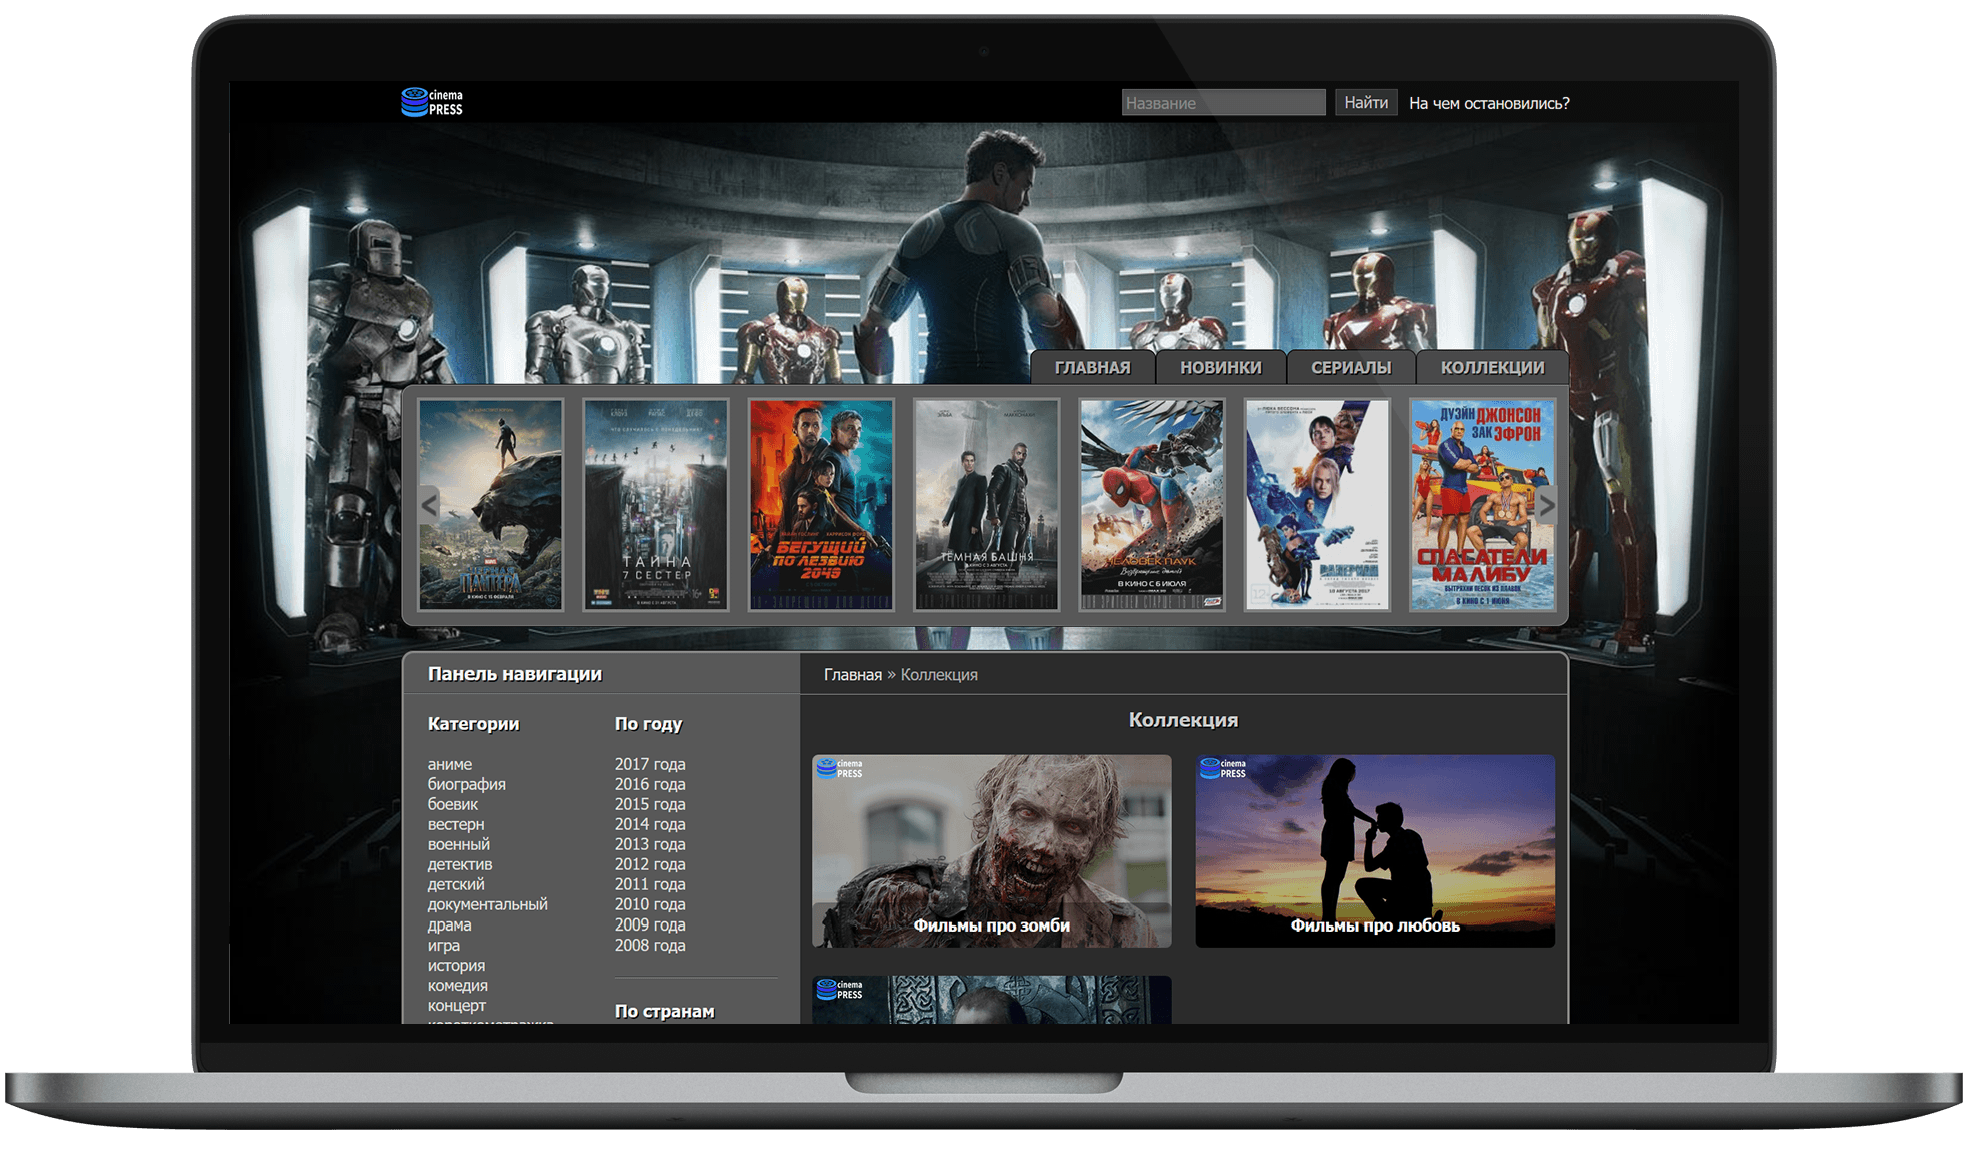
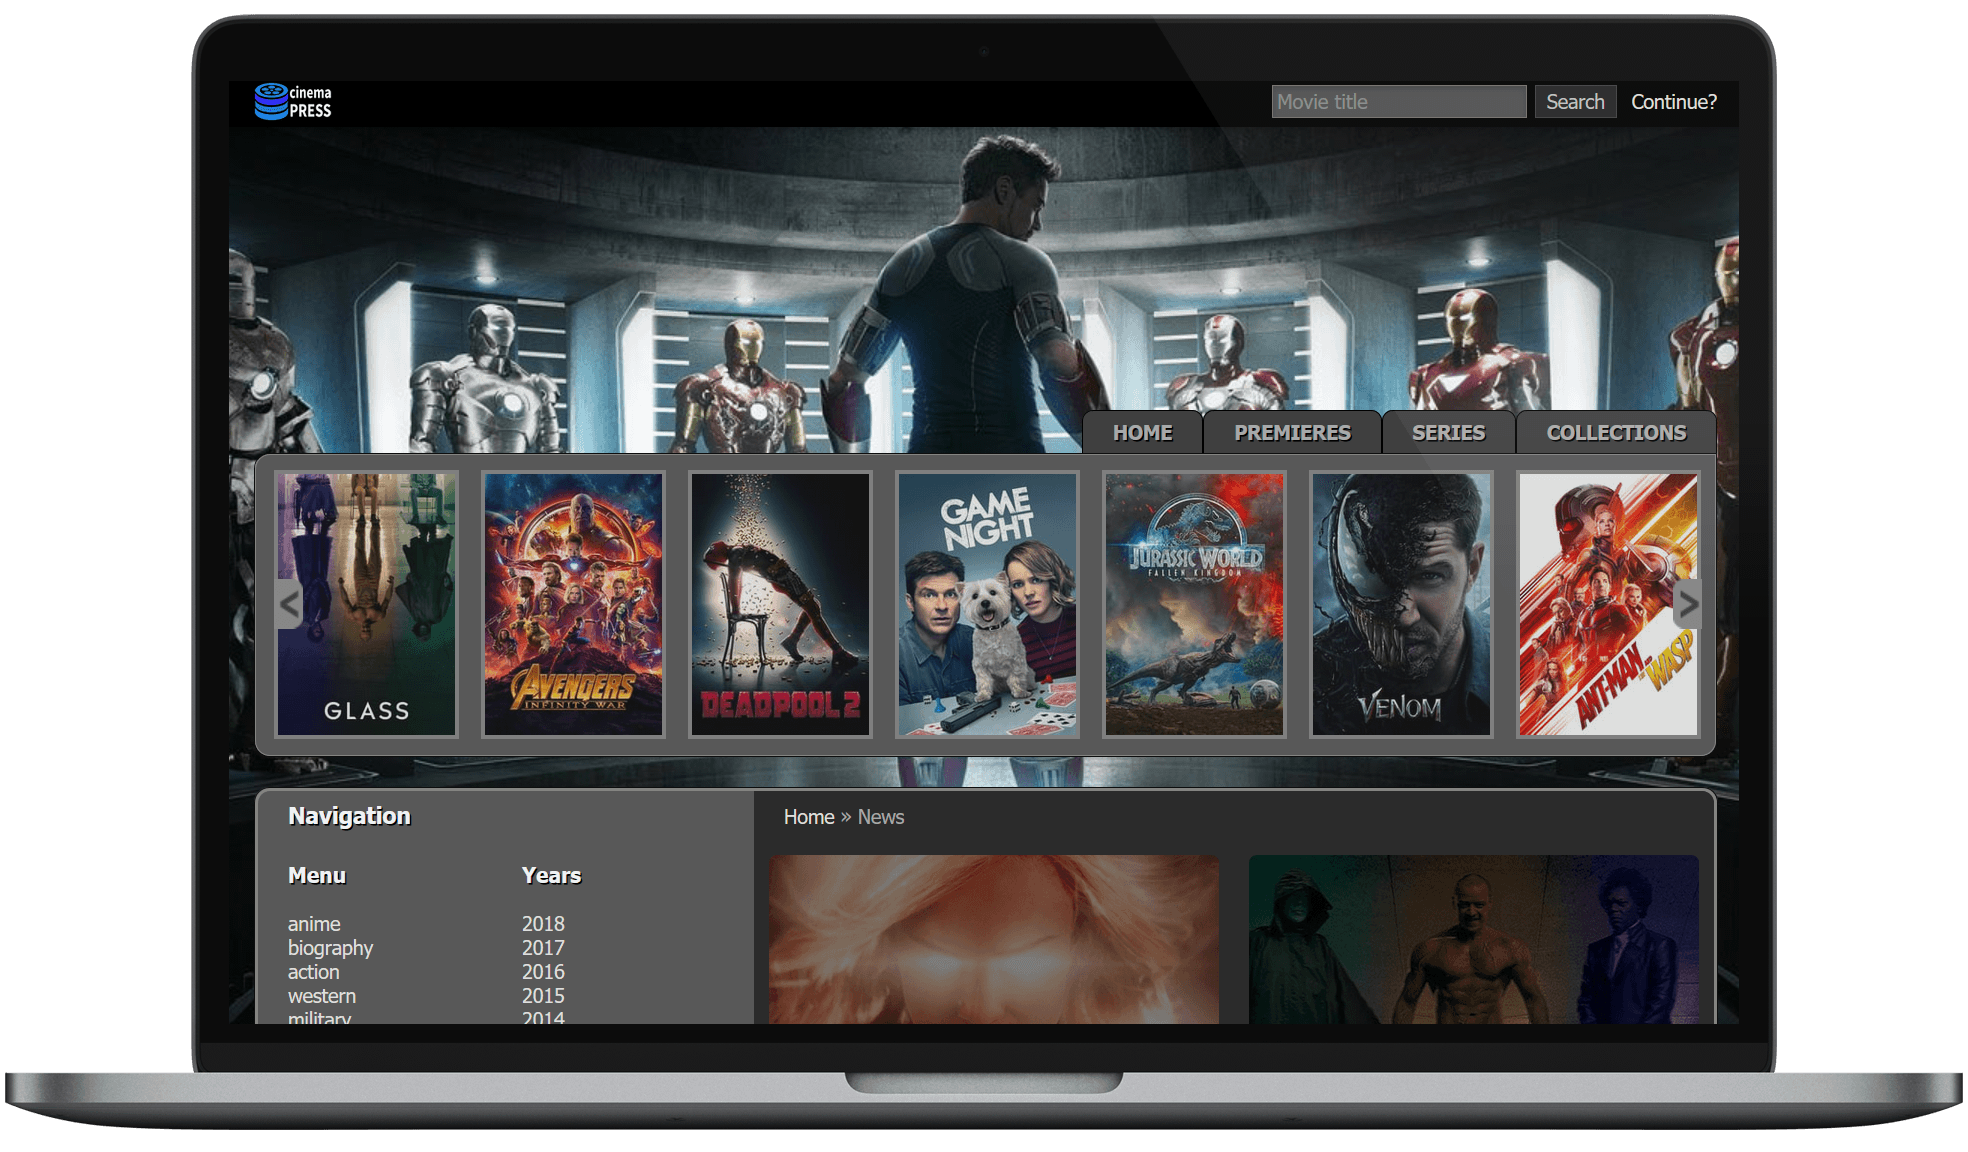
Add translate, new scr

diff --git a/README.md b/README.md
@@ -1,18 +1,29 @@
-# Шаблон «drogo»
+# Theme «drogo»
 
-![Шаблон «drogo» для CinemaPress ACMS](https://raw.githubusercontent.com/CinemaPress/Theme-Drogo/master/screenshot.png "Шаблон «drogo» для CinemaPress ACMS")
+![Theme «drogo» for CinemaPress ACMS](https://raw.githubusercontent.com/CinemaPress/Theme-Drogo/master/screenshot.png "Theme «drogo» for CinemaPress ACMS")
 
-:art: Шаблон «drogo» для CinemaPress ACMS
+:art: Theme «drogo» for CinemaPress ACMS
 
 - [Drogo.CinemaPress.org](http://Drogo.CinemaPress.org/)
 
-## Установка
+## How to install?
+1. Download [GitHub](https://github.com/CinemaPress/Theme-Drogo/archive/master.zip) or [GitLab](https://gitlab.com/CinemaPress/Theme-Drogo/repository/archive.zip) or [BitBucket](https://bitbucket.org/cinemapress/theme-drogo/get/master.zip) or [Coding](https://coding.net/u/CinemaPress/p/Theme-Drogo/git/archive/master.zip)
+2. Unpack the archive and rename the folder to **drogo**
+3. Folder **drogo** send to server in folder **themes**
+4. Change the name of the theme in the admin panel to **drogo**
+
+## Installation via terminal
+```
+~# wget cinemapress.org/i -qO i && chmod +x i && ./i 3
+```
+
+## Как установить?
 1. Скачать архив с [GitHub](https://github.com/CinemaPress/Theme-Drogo/archive/master.zip) или [GitLab](https://gitlab.com/CinemaPress/Theme-Drogo/repository/archive.zip) или [BitBucket](https://bitbucket.org/cinemapress/theme-drogo/get/master.zip) или [Coding](https://coding.net/u/CinemaPress/p/Theme-Drogo/git/archive/master.zip)
 2. Распаковать архив и переименовать папку в **drogo**
 3. Папку **drogo** отправить на сервер в папку **themes**
 4. Изменить название темы в админ-панели на **drogo**
 
-## Установка через установщик тем CinemaPress ACMS
+## Установка через терминал
 ```
 ~# wget cinemapress.org/i -qO i && chmod +x i && ./i 3
 ```
